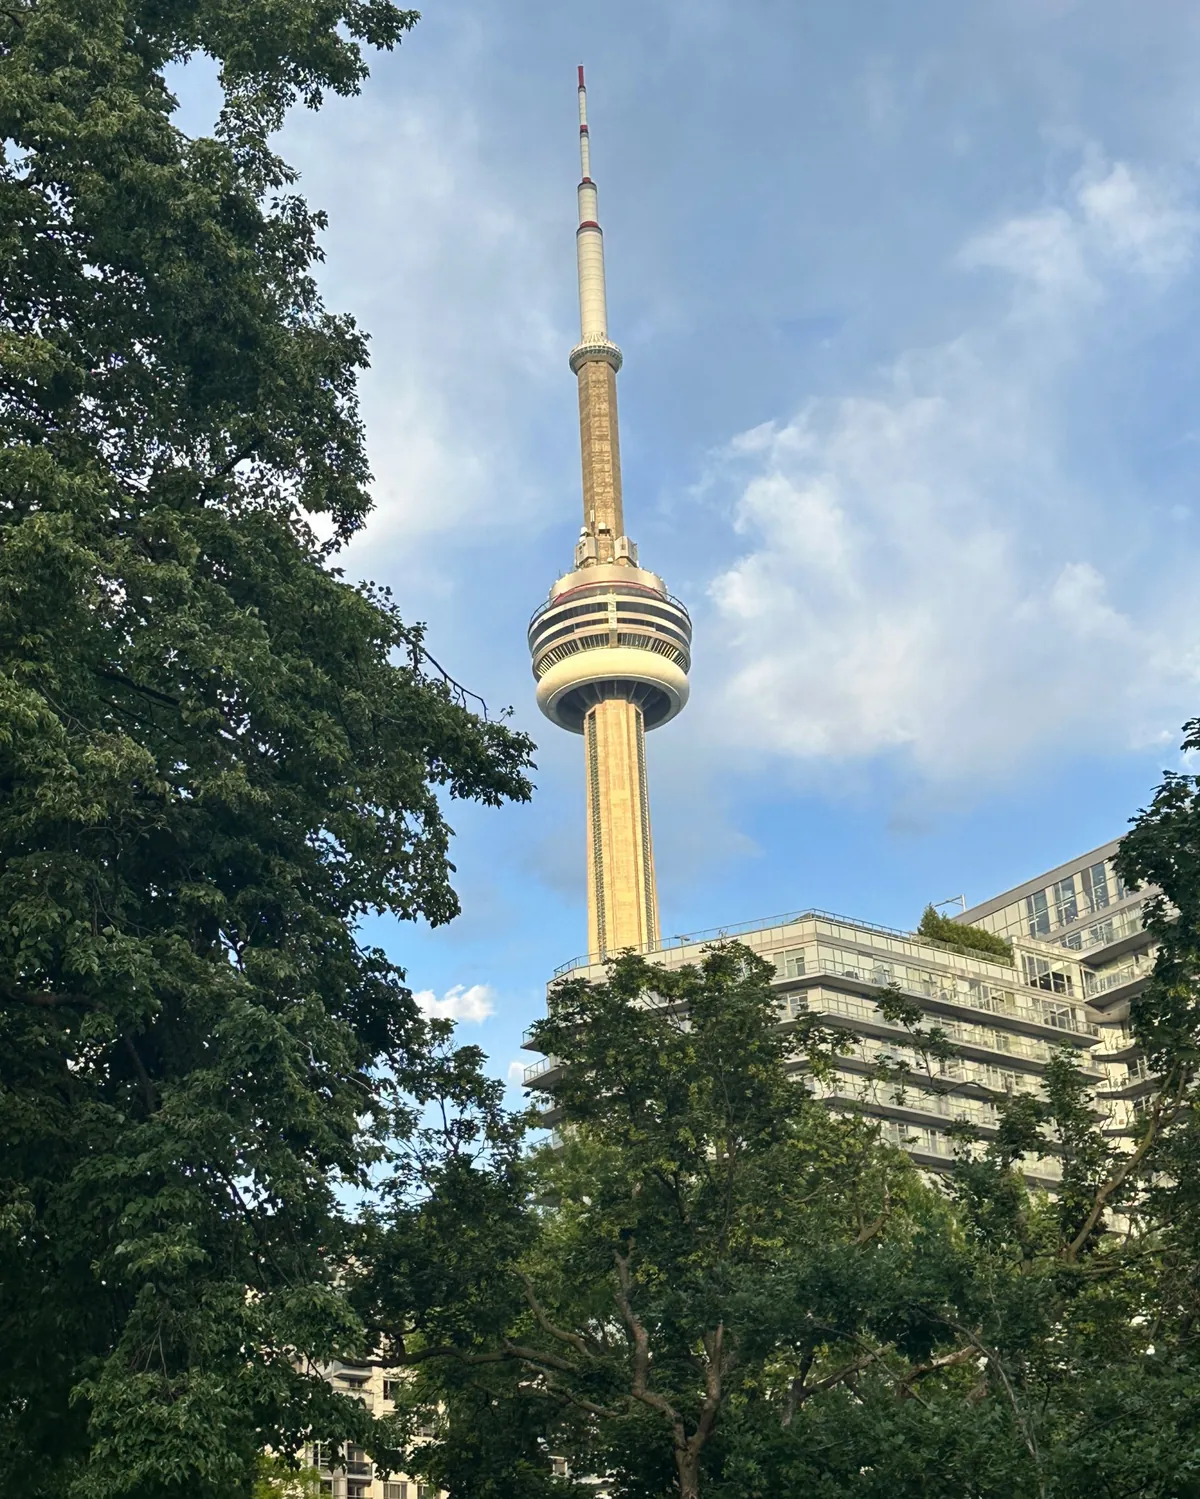
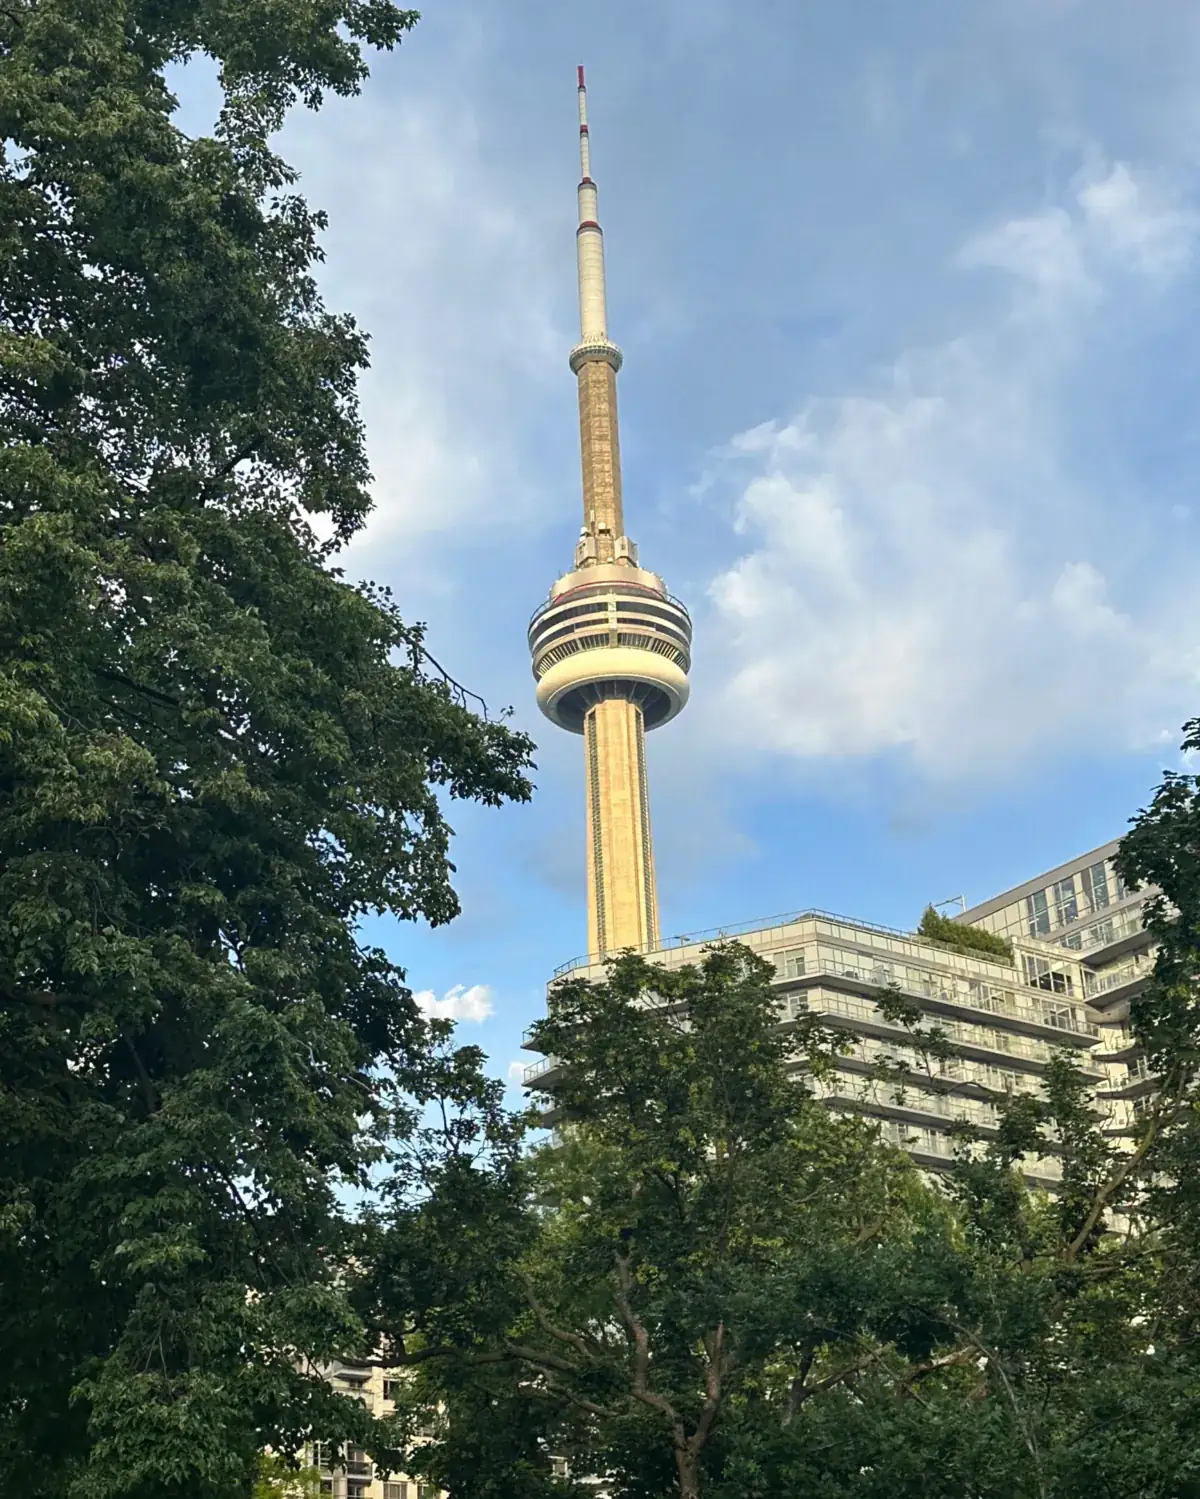
Final pass: lighter photos, right-sized images, label contrast fix
Claude-Session: https://claude.ai/code/session_01CLazYT8C7fLz6B7z1ZghoL

Changed region(s): [[0.185, 0.0614, 0.2158, 0.0921]]

diff --git a/about-me/index.html b/about-me/index.html
@@ -136,7 +136,7 @@
       <li class="ab-flip-item"><figure class="ab-print ab-wide ab-flip" role="button" tabindex="0" aria-pressed="false" aria-label="Basics of Investing 101. Flip the photo to read the story behind it.">
         <div class="ab-flip-inner">
           <div class="ab-face ab-front">
-            <img src="../assets/img/about/ab-investing-640.webp" srcset="../assets/img/about/ab-investing-640.webp 640w, ../assets/img/about/ab-investing-1200.webp 1200w" sizes="(max-width: 760px) 100vw, 380px" width="640" height="427" loading="lazy" alt="Manmit pointing excitedly at a slide titled Basics of Investing 101">
+            <img src="../assets/img/about/ab-investing-640.webp" srcset="../assets/img/about/ab-investing-640.webp 640w, ../assets/img/about/ab-investing-900.webp 900w, ../assets/img/about/ab-investing-1200.webp 1200w" sizes="(max-width: 760px) 100vw, 380px" width="640" height="427" loading="lazy" alt="Manmit pointing excitedly at a slide titled Basics of Investing 101">
           </div>
           <div class="ab-face ab-back" aria-hidden="true">
             <p class="ab-back-label">CDM, Vancouver</p>
@@ -148,7 +148,7 @@
       <li class="ab-flip-item"><figure class="ab-print ab-wide ab-flip" role="button" tabindex="0" aria-pressed="false" aria-label="Talking all things UX. Flip the photo to read the story behind it.">
         <div class="ab-flip-inner">
           <div class="ab-face ab-front">
-            <img src="../assets/img/about/ab-georgebrown-640.webp" srcset="../assets/img/about/ab-georgebrown-640.webp 640w, ../assets/img/about/ab-georgebrown-1200.webp 1200w" sizes="(max-width: 760px) 100vw, 380px" width="640" height="427" loading="lazy" alt="Manmit presenting tips for breaking into UX to a classroom of students">
+            <img src="../assets/img/about/ab-georgebrown-640.webp" srcset="../assets/img/about/ab-georgebrown-640.webp 640w, ../assets/img/about/ab-georgebrown-900.webp 900w, ../assets/img/about/ab-georgebrown-1200.webp 1200w" sizes="(max-width: 760px) 100vw, 380px" width="640" height="427" loading="lazy" alt="Manmit presenting tips for breaking into UX to a classroom of students">
           </div>
           <div class="ab-face ab-back" aria-hidden="true">
             <p class="ab-back-label">George Brown College, Toronto</p>
@@ -160,7 +160,7 @@
       <li class="ab-flip-item"><figure class="ab-print ab-wide ab-flip" role="button" tabindex="0" aria-pressed="false" aria-label="First place at the Accenture Ideathon. Flip the photo to read the story behind it.">
         <div class="ab-flip-inner">
           <div class="ab-face ab-front">
-            <img src="../assets/img/about/ab-ideathon-640.webp" srcset="../assets/img/about/ab-ideathon-640.webp 640w, ../assets/img/about/ab-ideathon-1200.webp 1200w" sizes="(max-width: 760px) 100vw, 380px" width="640" height="427" loading="lazy" alt="Teams working around tables at the Accenture ideathon at the Centre for Digital Media">
+            <img src="../assets/img/about/ab-ideathon-640.webp" srcset="../assets/img/about/ab-ideathon-640.webp 640w, ../assets/img/about/ab-ideathon-900.webp 900w, ../assets/img/about/ab-ideathon-1200.webp 1200w" sizes="(max-width: 760px) 100vw, 380px" width="640" height="427" loading="lazy" alt="Teams working around tables at the Accenture ideathon at the Centre for Digital Media">
             <span class="ab-doodle ab-doodle-me" aria-hidden="true"><em>me</em><svg class="ab-arrow" viewBox="0 0 60 60" aria-hidden="true"><path d="M50 6 C 44 24 30 40 12 50"/><path d="M9 38 L11 51 L24 50"/></svg></span>
           </div>
           <div class="ab-face ab-back" aria-hidden="true">
@@ -220,7 +220,7 @@
       <li class="ab-flip-item"><figure class="ab-print ab-flip" role="button" tabindex="0" aria-pressed="false" aria-label="Somewhere in the woods. Flip the photo to read the note on the back.">
         <div class="ab-flip-inner">
           <div class="ab-face ab-front">
-            <img src="../assets/img/about/ab-forest-640.webp" srcset="../assets/img/about/ab-forest-640.webp 640w, ../assets/img/about/ab-forest-1200.webp 1200w" sizes="(max-width: 760px) 50vw, 320px" width="640" height="800" loading="lazy" alt="Manmit standing inside the hollow trunk of a giant old cedar, looking up">
+            <img src="../assets/img/about/ab-forest-640.webp" srcset="../assets/img/about/ab-forest-640.webp 640w, ../assets/img/about/ab-forest-900.webp 900w, ../assets/img/about/ab-forest-1200.webp 1200w" sizes="(max-width: 760px) 74vw, 300px" width="640" height="800" loading="lazy" alt="Manmit standing inside the hollow trunk of a giant old cedar, looking up">
             <figcaption><span>01</span>Somewhere in the woods</figcaption>
           </div>
           <div class="ab-face ab-back" aria-hidden="true">
@@ -233,7 +233,7 @@
       <li class="ab-flip-item"><figure class="ab-print ab-flip" role="button" tabindex="0" aria-pressed="false" aria-label="Still working on my swing. Flip the photo to read the note on the back.">
         <div class="ab-flip-inner">
           <div class="ab-face ab-front">
-            <img src="../assets/img/about/ab-golf-640.webp" srcset="../assets/img/about/ab-golf-640.webp 640w, ../assets/img/about/ab-golf-1200.webp 1200w" sizes="(max-width: 760px) 50vw, 320px" width="640" height="800" loading="lazy" alt="Manmit mid-swing at a floodlit driving range at night">
+            <img src="../assets/img/about/ab-golf-640.webp" srcset="../assets/img/about/ab-golf-640.webp 640w, ../assets/img/about/ab-golf-900.webp 900w, ../assets/img/about/ab-golf-1200.webp 1200w" sizes="(max-width: 760px) 74vw, 300px" width="640" height="800" loading="lazy" alt="Manmit mid-swing at a floodlit driving range at night">
             <figcaption><span>02</span>Still working on my swing</figcaption>
           </div>
           <div class="ab-face ab-back" aria-hidden="true">
@@ -246,7 +246,7 @@
       <li class="ab-flip-item"><figure class="ab-print ab-flip" role="button" tabindex="0" aria-pressed="false" aria-label="Trying not to fall. Flip the photo to read the note on the back.">
         <div class="ab-flip-inner">
           <div class="ab-face ab-front">
-            <img src="../assets/img/about/ab-skating-640.webp" srcset="../assets/img/about/ab-skating-640.webp 640w, ../assets/img/about/ab-skating-1200.webp 1200w" sizes="(max-width: 760px) 50vw, 320px" width="640" height="800" loading="lazy" alt="Manmit and three friends on skates at an outdoor rink, two of them throwing peace signs">
+            <img src="../assets/img/about/ab-skating-640.webp" srcset="../assets/img/about/ab-skating-640.webp 640w, ../assets/img/about/ab-skating-900.webp 900w, ../assets/img/about/ab-skating-1200.webp 1200w" sizes="(max-width: 760px) 74vw, 300px" width="640" height="800" loading="lazy" alt="Manmit and three friends on skates at an outdoor rink, two of them throwing peace signs">
             <figcaption><span>03</span>Trying not to fall</figcaption>
           </div>
           <div class="ab-face ab-back" aria-hidden="true">
@@ -259,7 +259,7 @@
       <li class="ab-flip-item"><figure class="ab-print ab-flip" role="button" tabindex="0" aria-pressed="false" aria-label="Slightly competitive. Flip the photo to read the note on the back.">
         <div class="ab-flip-inner">
           <div class="ab-face ab-front">
-            <img src="../assets/img/about/ab-pickleball-640.webp" srcset="../assets/img/about/ab-pickleball-640.webp 640w, ../assets/img/about/ab-pickleball-1200.webp 1200w" sizes="(max-width: 760px) 50vw, 320px" width="640" height="800" loading="lazy" alt="Two blue pickleball paddles and a yellow ball resting on a court by the net">
+            <img src="../assets/img/about/ab-pickleball-640.webp" srcset="../assets/img/about/ab-pickleball-640.webp 640w, ../assets/img/about/ab-pickleball-900.webp 900w, ../assets/img/about/ab-pickleball-1200.webp 1200w" sizes="(max-width: 760px) 74vw, 300px" width="640" height="800" loading="lazy" alt="Two blue pickleball paddles and a yellow ball resting on a court by the net">
             <figcaption><span>04</span>Slightly competitive</figcaption>
           </div>
           <div class="ab-face ab-back" aria-hidden="true">
@@ -281,11 +281,11 @@
         </svg>
         <button type="button" class="ab-replay" aria-label="Replay the flight from Toronto to Vancouver" hidden><em>One more trip?</em></button>
         <figure class="ab-print ab-tilt-l">
-          <img src="../assets/img/about/ab-toronto-640.webp" srcset="../assets/img/about/ab-toronto-640.webp 640w, ../assets/img/about/ab-toronto-1200.webp 1200w" sizes="(max-width: 760px) 50vw, 320px" width="640" height="800" loading="lazy" alt="The CN Tower in Toronto against a blue sky, framed by trees">
+          <img src="../assets/img/about/ab-toronto-640.webp" srcset="../assets/img/about/ab-toronto-640.webp 640w, ../assets/img/about/ab-toronto-900.webp 900w, ../assets/img/about/ab-toronto-1200.webp 1200w" sizes="(max-width: 760px) 74vw, 300px" width="640" height="800" loading="lazy" alt="The CN Tower in Toronto against a blue sky, framed by trees">
           <figcaption>Toronto</figcaption>
         </figure>
         <figure class="ab-print ab-tilt-r">
-          <img src="../assets/img/about/ab-vancouver-640.webp" srcset="../assets/img/about/ab-vancouver-640.webp 640w, ../assets/img/about/ab-vancouver-1200.webp 1200w" sizes="(max-width: 760px) 50vw, 320px" width="640" height="800" loading="lazy" alt="The North Shore mountains across the water in Vancouver, with sailboats in the bay">
+          <img src="../assets/img/about/ab-vancouver-640.webp" srcset="../assets/img/about/ab-vancouver-640.webp 640w, ../assets/img/about/ab-vancouver-900.webp 900w, ../assets/img/about/ab-vancouver-1200.webp 1200w" sizes="(max-width: 760px) 74vw, 300px" width="640" height="800" loading="lazy" alt="The North Shore mountains across the water in Vancouver, with sailboats in the bay">
           <figcaption>Vancouver</figcaption>
         </figure>
       </div>
@@ -295,7 +295,7 @@
 
   <section class="ab-sec ab-bye" aria-labelledby="bye-title">
     <figure class="ab-print ab-tilt-r ab-bye-photo">
-      <img src="../assets/img/about/ab-wave-640.webp" srcset="../assets/img/about/ab-wave-640.webp 640w, ../assets/img/about/ab-wave-1200.webp 1200w" sizes="280px" width="640" height="767" loading="lazy" alt="Manmit waving at the camera, resting her head on her hand">
+      <img src="../assets/img/about/ab-wave-640.webp" srcset="../assets/img/about/ab-wave-640.webp 640w, ../assets/img/about/ab-wave-900.webp 900w, ../assets/img/about/ab-wave-1200.webp 1200w" sizes="280px" width="640" height="767" loading="lazy" alt="Manmit waving at the camera, resting her head on her hand">
     </figure>
     <div>
       <h2 id="bye-title">Thanks for stopping <em>by.</em></h2>

diff --git a/index.html b/index.html
@@ -129,7 +129,7 @@
 
     <a class="project" href="sewjo/">
       <div class="project-media" style="background:#FDF4D9">
-        <img src="assets/img/sl-cover-card.webp" width="891" height="917" loading="lazy" alt="Three phones showing a StitchLog project for a summer satin dress, under the Sewjo StitchLog logo" style="object-position:center top; view-transition-name: cover-stitchlog">
+        <img src="assets/img/sl-cover-card.webp" srcset="assets/img/sl-cover-card-640.webp 640w, assets/img/sl-cover-card.webp 891w" sizes="(max-width: 760px) 92vw, 440px" width="891" height="917" loading="lazy" alt="Three phones showing a StitchLog project for a summer satin dress, under the Sewjo StitchLog logo" style="object-position:center top; view-transition-name: cover-stitchlog">
       </div>
       <div>
         <p class="project-where"><span>Sewjo — StitchLog</span><span class="status"><span class="status-dot" aria-hidden="true"></span>Shipped</span></p>

diff --git a/assets/ask.js b/assets/ask.js
@@ -65,7 +65,7 @@
     "/accenture/": { title: "Assessing a garden the AI can't see", where: "Accenture — Wildlight", img: "/assets/img/wl-cover-v3-1000.webp" },
     "/sewjo-merchant-dashboard/": { title: "Proving value without seeing the sale", where: "Sewjo — Merchant Dashboard", img: "/assets/img/sb-cover-v2-1000.webp" },
     "/sewjo-challenges/": { title: "Turning a launch campaign into reasons to come back", where: "Sewjo — Challenges", img: "/assets/img/ch-cover-v2-1000.webp" },
-    "/sewjo/": { title: "Making project tracking feel effortless", where: "Sewjo — StitchLog", img: "/assets/img/sl-cover-card.webp", top: true }
+    "/sewjo/": { title: "Making project tracking feel effortless", where: "Sewjo — StitchLog", img: "/assets/img/sl-cover-card-640.webp", top: true }
   };
 
   var INTRO = '<div class="ask-art" aria-hidden="true"><img src="/assets/img/ask-md.webp" width="640" height="277" alt=""></div>' +

diff --git a/assets/site.css b/assets/site.css
@@ -1487,7 +1487,7 @@ html.ask-locked .dock, html.ask-docked .dock { display: none; }
 
 /* TL;DR block, before the background */
 .cs2-tldr { max-width: var(--col); margin: clamp(2rem, 5vw, 3rem) auto 0; }
-.cs2-tldr-label { margin: 0 0 0.75rem; font-family: var(--f-mono); font-size: 0.875rem; font-weight: 500; letter-spacing: 0.08em; color: var(--dusty); }
+.cs2-tldr-label { margin: 0 0 0.75rem; font-family: var(--f-mono); font-size: 0.875rem; font-weight: 500; letter-spacing: 0.08em; color: #43658C; }
 .cs2-tldr p:not(.cs2-tldr-label) { margin: 0 0 1em; font-size: 1.0625rem; line-height: 1.65; }
 /* The line under a big statement leads into what follows, so it reads clearly at a skim */
 .cs2-band-sub { margin-top: 1.25rem; font-size: clamp(1.125rem, 2vw, 1.375rem); font-weight: 600; line-height: 1.4; color: var(--navy); }
